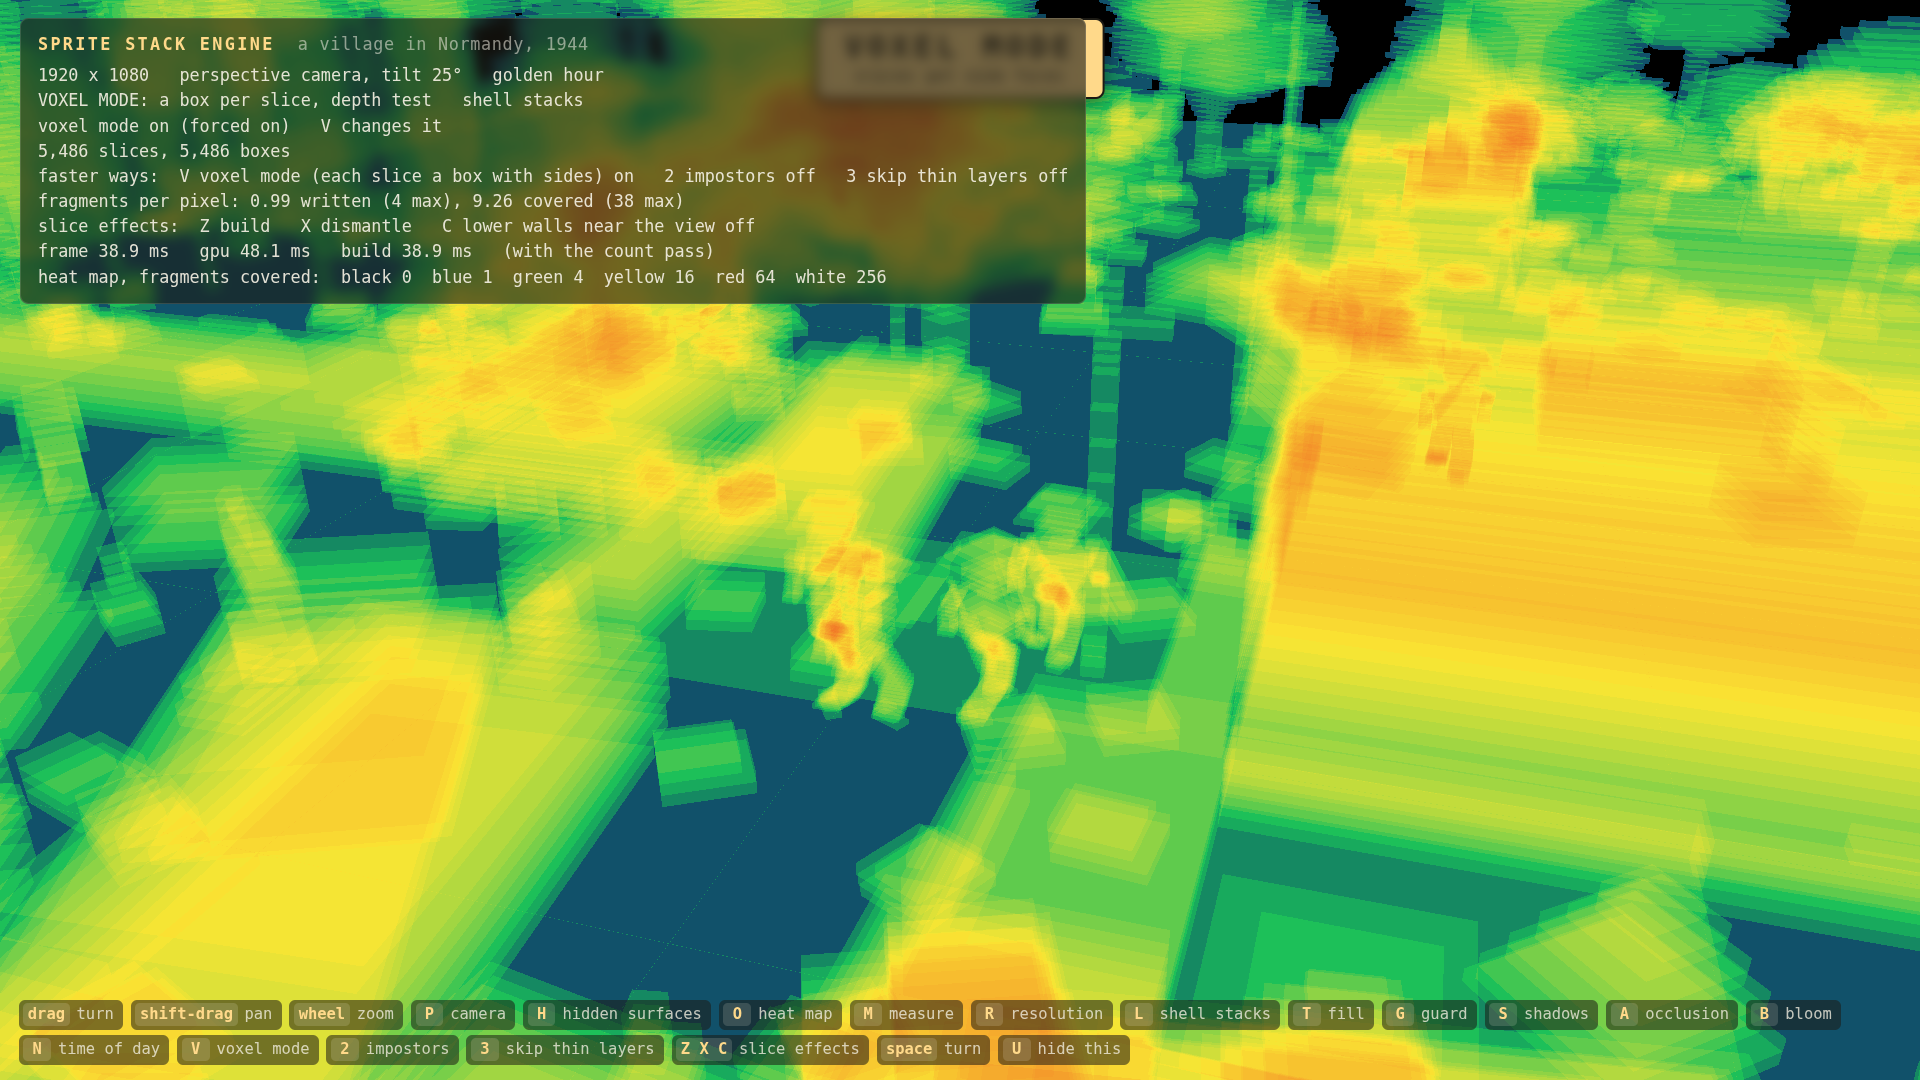
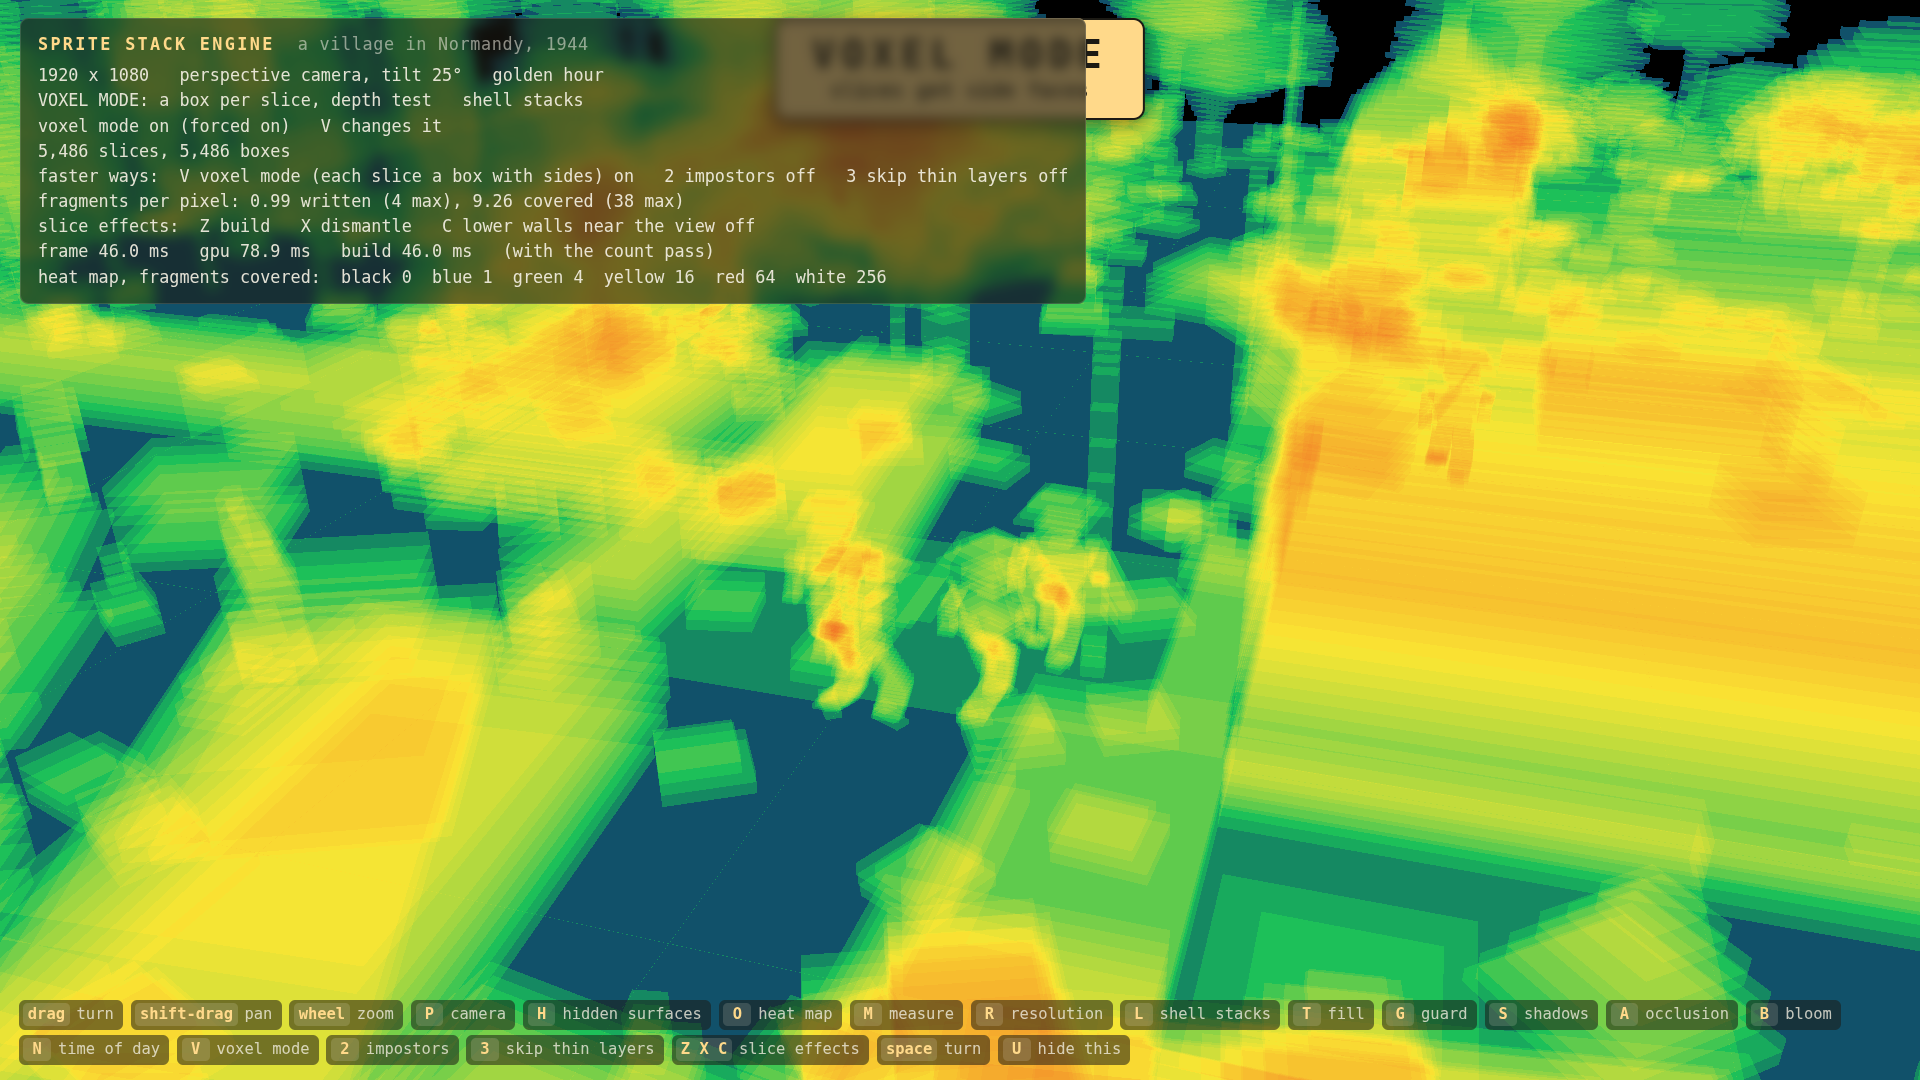
Voxel mode: the badge larger still; no line along the horizon (a level ray meets a height at no definite place, so voxel mode now also stores the distance in front of the camera and the light pass uses it there)

Changed region(s): [[0.4062, 0.0, 0.625, 0.1222]]

diff --git a/js/engine.js b/js/engine.js
@@ -83,7 +83,7 @@
     vec3 n = t.gba * 2.0 - 1.0; n.xy = vec2(n.x * v_cs.x - n.y * v_cs.y, n.x * v_cs.y + n.y * v_cs.x);   // turn the facing with the slice
     o0 = vec4(t.r, n * 0.5 + 0.5);                          // palette index, facing
     float h = clamp(v_h / ${HMAX}.0, 0.0, 1.0) * 65535.0, hi = floor(h / 256.0);
-    o1 = vec4(hi / 255.0, (h - hi * 256.0) / 255.0, 0.0, 1.0);   // height, 16 bits
+    o1 = vec4(hi / 255.0, (h - hi * 256.0) / 255.0, 0.0, 0.0);   // height, 16 bits (the other two are voxel mode's)
   }`;
   const FS_COUNT = `#version 300 es
   precision highp float;
@@ -156,6 +156,7 @@
   precision highp float;
   ${WALK}
   flat in vec2 v_off;
+  uniform vec3 u_eye, u_fwd;
   layout(location=0) out vec4 o0; layout(location=1) out vec4 o1;
   void main() {
     vec4 t; vec3 q; if (!walk(t, q)) discard;
@@ -163,7 +164,12 @@
     float hw; gl_FragDepth = depthOf(q, v_off, hw);
     o0 = vec4(t.r, n * 0.5 + 0.5);
     float h = clamp(hw / ${HMAX}.0, 0.0, 1.0) * 65535.0, hi = floor(h / 256.0);
-    o1 = vec4(hi / 255.0, (h - hi * 256.0) / 255.0, 0.0, 1.0);
+    // Besides the height, how far in front of the camera the point is (16 bits over 4096 units). The light pass
+    // finds a pixel's place from its height, which fails for a ray that runs level (the row of the horizon); there
+    // it uses this distance instead.
+    vec2 l = (v_off + q.xy - v_rect.zw * 0.5) * v_base.w;
+    float far = clamp(dot(vec3(v_base.xy + vec2(l.x * v_how.x - l.y * v_how.y, l.x * v_how.y + l.y * v_how.x), hw) - u_eye, u_fwd) / 4096.0, 0.0, 1.0) * 65535.0, fi = floor(far / 256.0);
+    o1 = vec4(hi / 255.0, (h - hi * 256.0) / 255.0, fi / 255.0, (far - fi * 256.0) / 255.0);
   }`;
   const FS_COUNTVOXEL = `#version 300 es
   precision highp float;
@@ -244,7 +250,7 @@
   uniform vec4 u_world;       // the map's width and depth, the level of open ground, the time in seconds
   uniform vec4 u_fx;          // shadow softness (0: no shadows), occlusion strength, how far the lamps are lit, cloud shadows
   uniform vec4 u_view;        // the direction to the sun on screen (xy, pixels), where the haze starts, how deep it is
-  uniform vec4 u_tone;        // exposure, haze strength
+  uniform vec4 u_tone;        // exposure, haze strength, 1 for the perspective camera
   uniform float u_water;      // the palette index of water
   uniform vec4 u_lamp[${LAMPS}]; uniform vec3 u_lampCol[${LAMPS}];
   uniform vec4 u_blob[${BLOBS}]; uniform float u_blobLow[${BLOBS}]; uniform int u_nblob;
@@ -282,6 +288,10 @@
     float fall = b.z - a.z; bool level = fall > -0.0001;    // a ray that does not come down (voxel mode lets the camera look along the ground)
     if (outer && (level || (h - a.z) / fall > 1.0)) { o = vec4(finish(mix(u_hazeCol, u_hazeCol * 0.86 + u_skyCol * 0.3, clamp(normalize(b.xyz - a.xyz).z * 4.0, 0.0, 1.0))), 0.0); return; }      // sky
     vec3 p = mix(a.xyz, b.xyz, (h - a.z) / (abs(fall) < 0.0001 ? -0.0001 : fall));
+    // A ray that runs nearly level meets a height at no definite place. Voxel mode stores the distance in front of
+    // the camera for that case (perspective only: the parallel camera's rays all slope alike).
+    vec3 ray = normalize(b.xyz - a.xyz); vec4 g1 = texelFetch(u_g1, px, 0);
+    if (!outer && u_tone.z > 0.5 && abs(ray.z) < 0.06 && g1.b + g1.a > 0.0) p = u_eye + ray * ((g1.b * 65280.0 + g1.a * 255.0) / 65535.0 * 4096.0 / dot(ray, u_fwd));
     float t = u_world.w;
 
     // The edge of the map dissolves into haze: no hard border, and things driving off it fade out.
@@ -689,7 +699,7 @@
       // the sun's direction as it lies on the screen, two pixels long (for the rim)
       const sx = M.r[0] * sun[0] + M.r[1] * sun[1], sy = M.u[0] * sun[0] + M.u[1] * sun[1] + M.u[2] * sun[2], sl = Math.hypot(sx, sy) || 1;
       gl.uniform4f(u.u_view, sx / sl * 2, sy / sl * 2, M.back - 140, 760);
-      gl.uniform4f(u.u_tone, env.exposure, env.hazeK, 0, 0); gl.uniform1f(u.u_water, opt.water || -9);
+      gl.uniform4f(u.u_tone, env.exposure, env.hazeK, M.ortho ? 0 : 1, 0); gl.uniform1f(u.u_water, opt.water || -9);
       const lamps = new Float32Array(LAMPS * 4), lampCol = new Float32Array(LAMPS * 3), blobs = new Float32Array(BLOBS * 4), low = new Float32Array(BLOBS);
       opt.lamps.slice(0, LAMPS).forEach(function (l, i) { lamps.set(l.slice(0, 4), i * 4); lampCol.set(l.slice(4, 7), i * 3); });
       opt.blobs.slice(0, BLOBS).forEach(function (b, i) { blobs.set(b.slice(0, 4), i * 4); low[i] = b[4]; });

diff --git a/index.html b/index.html
@@ -14,9 +14,9 @@
   #hud { font: 12px/1.5 ui-monospace, "Cascadia Mono", Consolas, Menlo, monospace; color: #f3efe2; pointer-events: none; }
   #hud.off, #hud.film #keys { display: none; }
   /* the badge: shown while the engine draws in voxel mode, fades when it stops */
-  #badge { position: fixed; left: 50%; top: 18px; transform: translateX(-50%); padding: 0.3em 0.9em 0.4em; font: 700 clamp(20px, 2.8vh, 34px)/1.2 ui-monospace, "Cascadia Mono", Consolas, Menlo, monospace; letter-spacing: 0.16em; text-align: center; white-space: nowrap; color: #1c1a14; background: #ffd98a; border: 2px solid #1c1a14; border-radius: 0.3em; box-shadow: 0 4px 18px rgba(0, 0, 0, 0.45); opacity: 0; transition: opacity 0.9s; pointer-events: none; }
+  #badge { position: fixed; left: 50%; top: 18px; transform: translateX(-50%); padding: 0.3em 0.9em 0.4em; font: 700 clamp(26px, 3.6vh, 44px)/1.2 ui-monospace, "Cascadia Mono", Consolas, Menlo, monospace; letter-spacing: 0.16em; text-align: center; white-space: nowrap; color: #1c1a14; background: #ffd98a; border: 2px solid #1c1a14; border-radius: 0.3em; box-shadow: 0 4px 18px rgba(0, 0, 0, 0.45); opacity: 0; transition: opacity 0.9s; pointer-events: none; }
   #badge.on { opacity: 1; transition: opacity 0.15s; }
-  #badge small { display: block; margin-top: 0.1em; font-weight: 500; font-size: 0.5em; letter-spacing: 0.06em; }
+  #badge small { display: block; margin-top: 0.1em; font-weight: 600; font-size: 0.48em; letter-spacing: 0.06em; }
   #panel { position: fixed; left: 1.2em; top: 1.1em; padding: 0.75em 1em 0.8em; background: rgba(28, 26, 20, 0.62); border: 1px solid rgba(243, 239, 226, 0.14); border-radius: 0.5em; -webkit-backdrop-filter: blur(6px); backdrop-filter: blur(6px); }
   #panel h1 { margin: 0 0 0.35em; font-size: 1em; font-weight: 600; letter-spacing: 0.14em; text-transform: uppercase; color: #ffd98a; }
   #panel h1 span { color: rgba(243, 239, 226, 0.55); font-weight: 400; letter-spacing: 0.04em; text-transform: none; }
